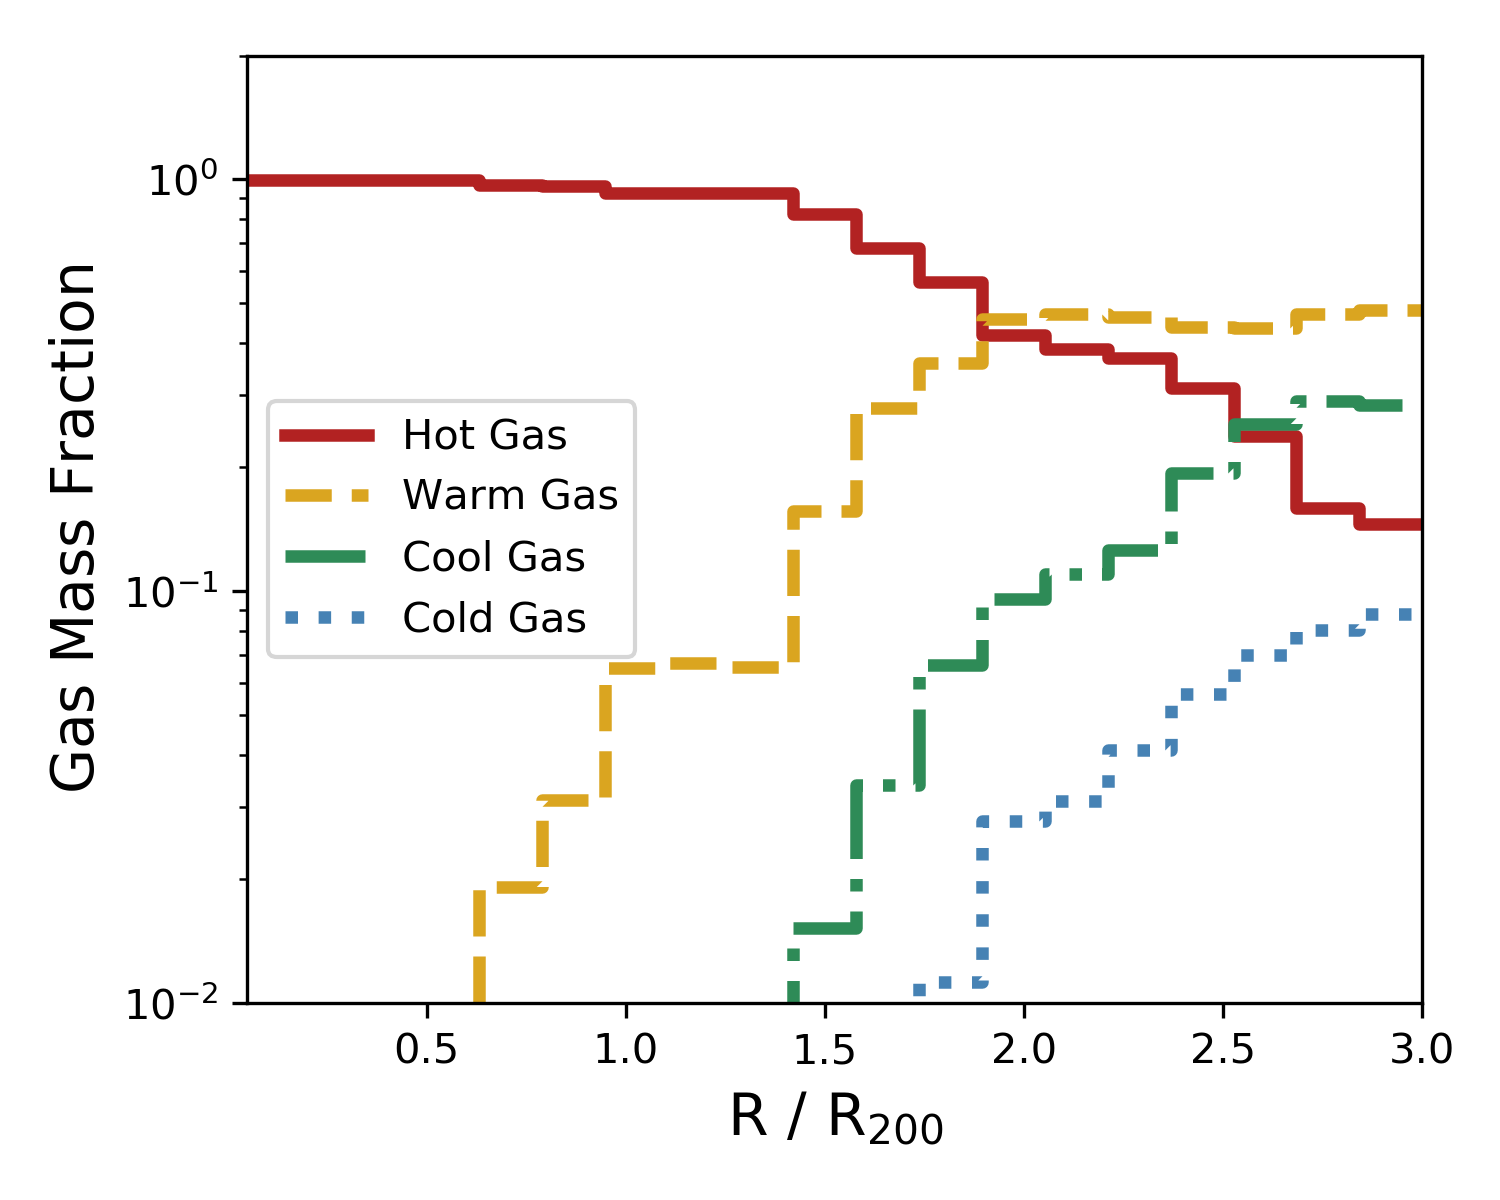
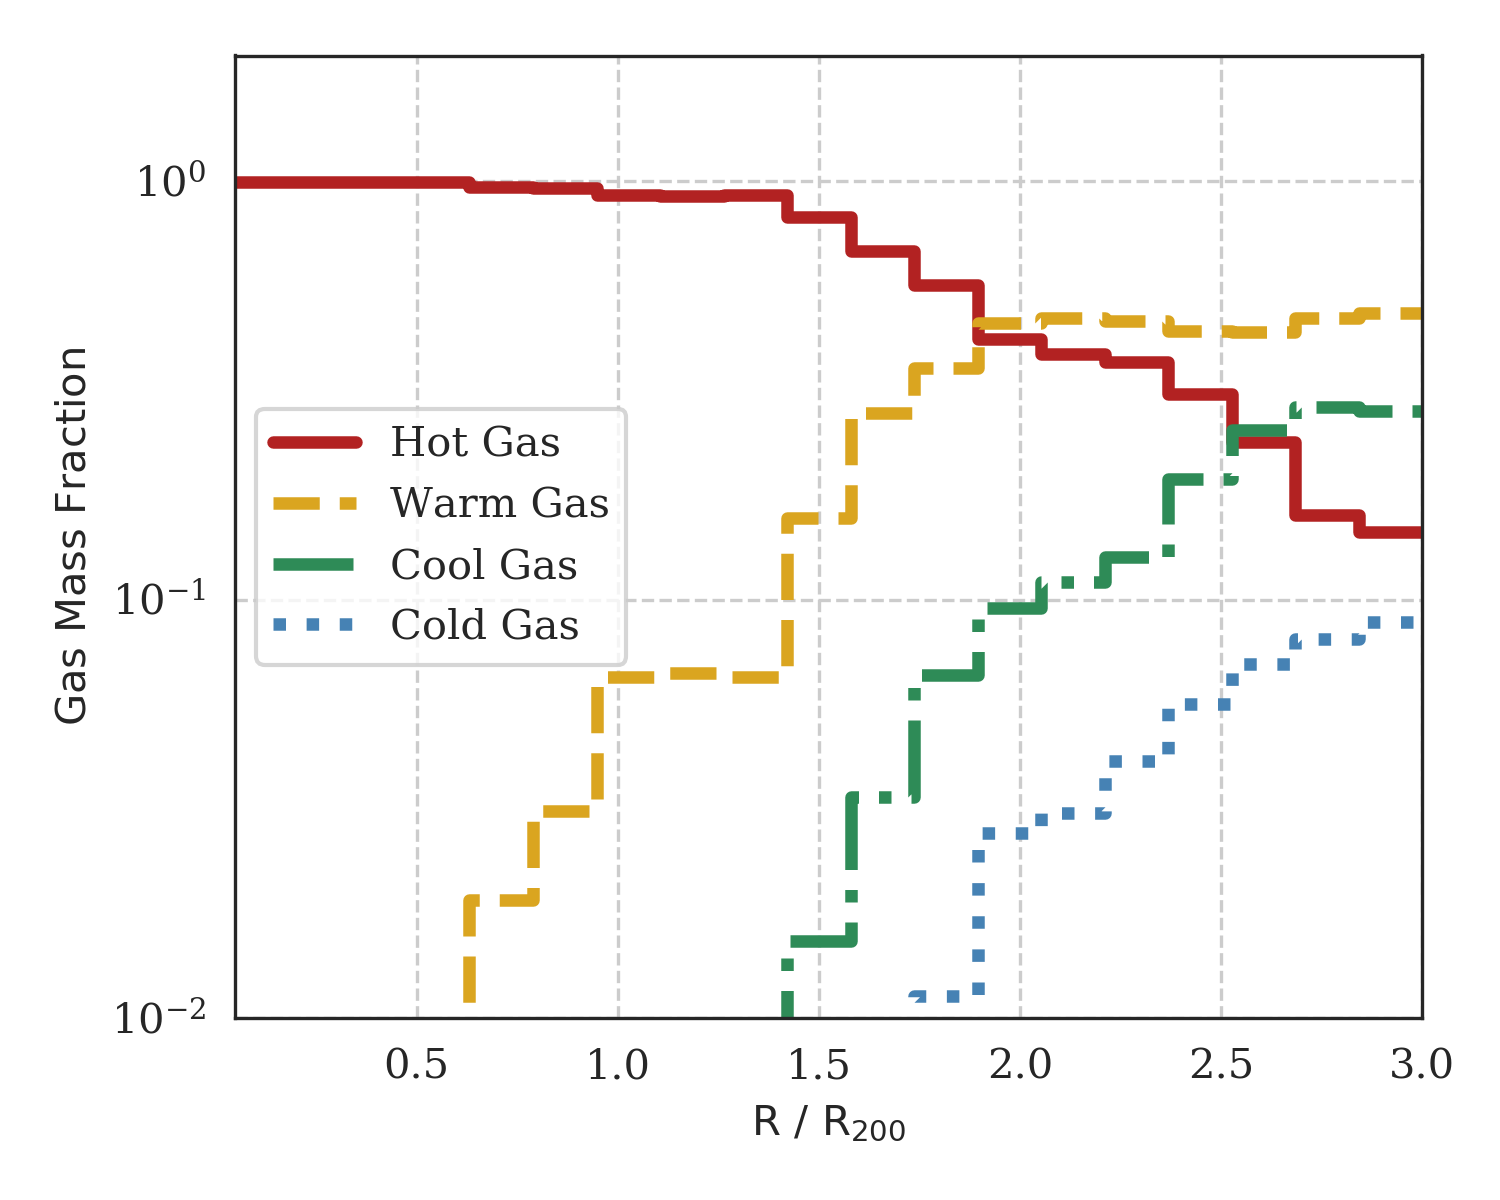
fixing plot style pf temperature profile

diff --git a/plot_gas_temperature_profile.py b/plot_gas_temperature_profile.py
@@ -9,6 +9,9 @@ import romulus_analysis_helper as rom_help
 import ion_plot_definitions as ipd
 import seaborn as sns
 
+sns.set_style("white",{'font.family':'serif', 'axes.grid': True, "ytick.major.size": 0.1,
+                "ytick.minor.size": 0.05,
+                'grid.linestyle': '--'})
 
 output = int(sys.argv[1])
 rvir = rom_help.get_romulus_rvir('romulusC', output)
@@ -53,7 +56,7 @@ ax.set_xlim(0.05, 3)
 ax.set_yscale('log')
 ax.set_ylim(1e-2, 2)
 fs = 14
-ax.set_xlabel('$\mathrm{R\ /\ R}_{200}$', fontsize = fs)
-ax.set_ylabel('$\mathrm{Gas\ Mass\ Fraction}$', fontsize = fs)
+ax.set_xlabel('$\mathrm{R\ /\ R}_{200}$')#, fontsize = fs)
+ax.set_ylabel('$\mathrm{Gas\ Mass\ Fraction}$')#, fontsize = fs)
 fig.tight_layout()
 plt.savefig('temperature_mass_profile_%i.png'%(output), dpi = 300)
